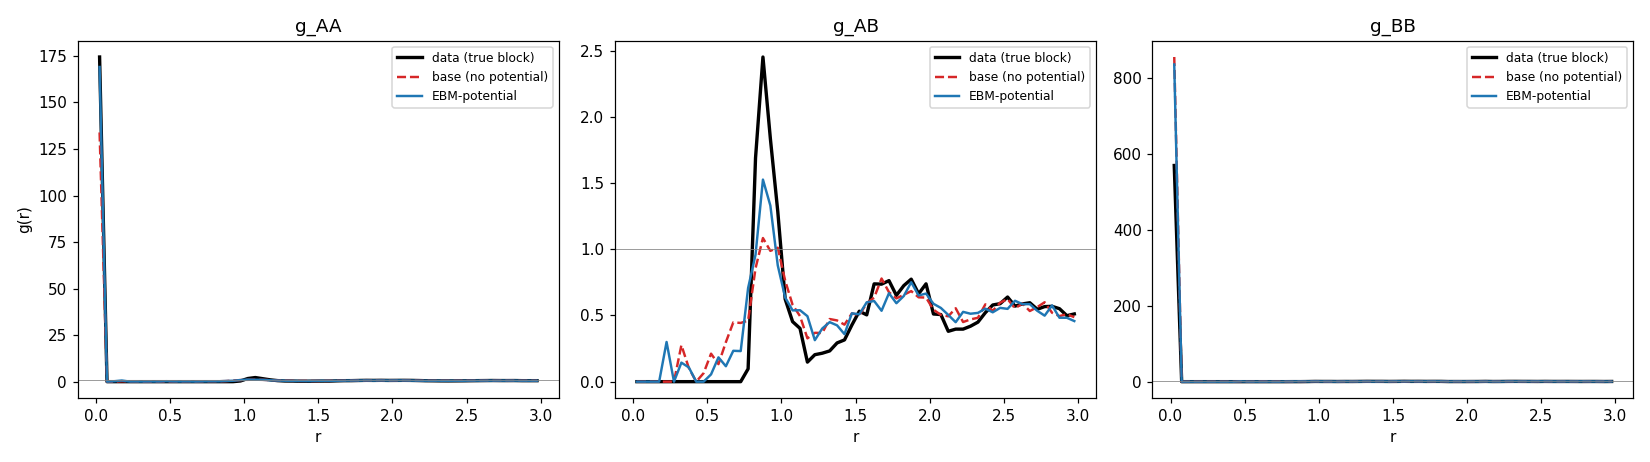
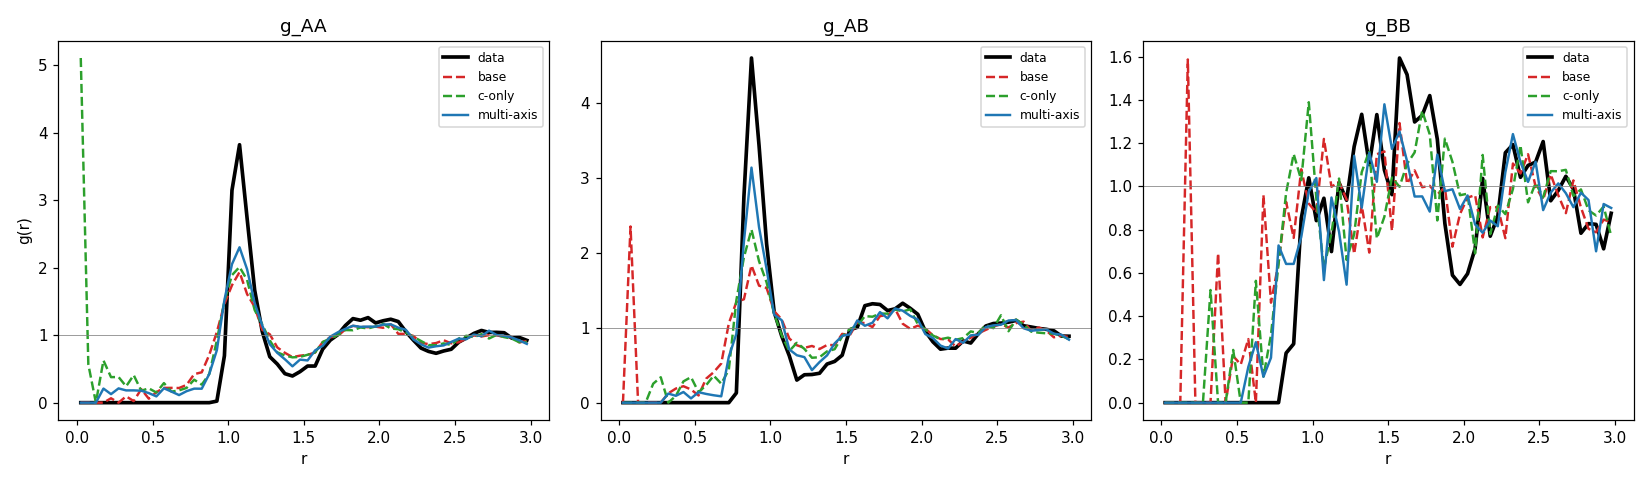
fix+results(ka3d-ebm): correct 3D g(r) (bulk-norm + index self-exclusion) as structural metric
Two bugs fixed: (1) normalise by BULK rho_b=rho*x_b (not cavity-avg -> g->1 at large r, physical peaks),
(2) exclude self BY INDEX (cdist self-dist ~1e-3 leaked into bin0, spiking g_AA/g_BB only). Clean result:
multi-axis lowest L2-to-data on ALL 3 species; g_AB peak ladder 1.83(base)->2.31(c)->3.14(multi), data 4.60.
g(r) and clash decomposition agree; g(r) is the trustworthy metric.

Changed region(s): [[0.0, 0.0303, 1.0, 0.9091]]

diff --git a/reports/logs-2026-07-11/struct_ebm3d_gr.py b/reports/logs-2026-07-11/struct_ebm3d_gr.py
@@ -1,9 +1,9 @@
-"""3D cavity-block species-resolved g(r): for each regenerated block particle (species a), distances to
-ALL other cavity particles (interior + boundary, species b), 3D ideal-gas shell norm. Ground truth = the
-TRUE carved interior block. Compare data vs frozen-phi base vs EBM-potential -> does the learned potential
-reproduce first-shell / g_BB structure in 3D? Saves a 3-panel plot + peak/L2 diagnostics.
-argv: ebm_ckpt base_ckpt."""
-import sys, math
+"""3D cavity-block species-resolved g(r) -- the structural statistic (replaces the clash cutoff).
+For each regenerated block particle (species a), distances to ALL other cavity particles (interior +
+boundary, species b), normalised by the BULK ideal-gas expectation rho_b*4pi r^2 dr (rho_b = rho*x_b so
+g->1 at large r). Ground truth = the TRUE carved interior block. Compares data / base(no potential) /
+c-only / multi-axis. Prints first-peak height + position + L2-to-data, and saves a 3-panel plot."""
+import math
 import torch
 import matplotlib
 matplotlib.use("Agg")
@@ -13,9 +13,10 @@ from liquid_coupling_flow.ka3d_scaffold_ar import label_to_scaffold, fixed_ball_
 from liquid_coupling_flow.ka3d_cavity_ar import _mic
 from liquid_coupling_flow.ka3d_cavity_carve import carve
 
-dev = "cuda"; R = 2.0; R_CTX = 2.5; K = 8; TRIALS = 16; NCONF = 40; RMAX, NB = 3.0, 60
-ebm_p = sys.argv[1] if len(sys.argv) > 1 else "liquid_coupling_flow/artifacts/ka3d_cavity_ebm.pt"
-base_p = sys.argv[2] if len(sys.argv) > 2 else "liquid_coupling_flow/artifacts/ka3d_cavity_base.pt"
+dev = "cuda"; R = 2.0; R_CTX = 2.5; K = 8; NCONF = 80; RMAX, NB = 3.0, 60; RHO = 1.2
+ART = "liquid_coupling_flow/artifacts"
+CKPTS = {"base": f"{ART}/ka3d_cavity_base.pt", "c-only": f"{ART}/ka3d_cavity_ebm.pt",
+         "multi-axis": f"{ART}/ka3d_cavity_ebm3ax.pt"}
 
 
 def load(p):
@@ -25,12 +26,14 @@ def load(p):
     return m
 
 
-me, mb = load(ebm_p), load(base_p)
-d = torch.load("liquid_coupling_flow/artifacts/ka3d_dataset_N512_T0.5.pt", map_location=dev, weights_only=False)
+models = {k: load(v) for k, v in CKPTS.items()}
+d = torch.load(f"{ART}/ka3d_dataset_N512_T0.5.pt", map_location=dev, weights_only=False)
 X, S, L = d["x"].to(dev).float(), d["s"].to(dev).long(), float(d["L"])
+xB = float((S == 1).float().mean()); xA = 1.0 - xB                    # global species fractions
+rho = {0: RHO * xA, 1: RHO * xB}
 gen = torch.Generator(device=dev).manual_seed(3)
 edges = torch.linspace(0, RMAX, NB + 1, device=dev); dr = float(edges[1] - edges[0]); rc = (edges[:-1] + edges[1:]) / 2
-vol = (4.0 / 3.0) * math.pi * (R + R_CTX) ** 3
+shell = 4 * math.pi * rc ** 2 * dr
 
 
 def cavity(ci, c):
@@ -46,59 +49,63 @@ def blob(n):
     return m
 
 
-def accum(blk_x, blk_s, all_x, all_s, H, C, nb_sp):
+def accum(cidx, bs, ax, as_, H, C):
+    """cidx = indices of the block centres WITHIN ax (so self is excluded by index, not by a distance
+    threshold -- cdist self-distance is ~1e-3 from cancellation and would otherwise leak into bin 0)."""
+    dfull = torch.cdist(ax[cidx], ax)                               # [n_blk, P]
+    dfull[torch.arange(cidx.shape[0], device=dev), cidx] = 9.0      # exclude self by index
     for a in (0, 1):
-        ca = blk_x[blk_s == a]
-        if ca.shape[0] == 0:
+        rows = (bs == a)
+        if int(rows.sum()) == 0:
             continue
-        dmat = torch.cdist(ca, all_x)                                     # [|a|, P]
+        C[a] += int(rows.sum())
+        dmat = dfull[rows]
         for b in (0, 1):
-            dv = dmat[:, all_s == b]
-            dv = dv[(dv > 1e-4) & (dv < RMAX)]                            # drop self (~0) + out of range
-            H[a][b] += torch.histc(dv, NB, 0, RMAX); C[a] += ca.shape[0]
-    for b in (0, 1):
-        nb_sp[b] += int((all_s == b).sum())
-
-
-def gr(H, C, nb_sp, ncfg):
-    out = {}
-    for a in (0, 1):
-        for b in (0, 1):
-            rho_b = (nb_sp[b] / ncfg) / vol
-            out[(a, b)] = (H[a][b] / max(C[a], 1)) / (rho_b * 4 * math.pi * rc ** 2 * dr).clamp_min(1e-12)
-    return out
+            dv = dmat[:, as_ == b]; dv = dv[dv < RMAX]
+            H[a][b] += torch.histc(dv, NB, 0, RMAX)
 
 
 def run(model):
-    H = {a: {b: torch.zeros(NB, device=dev) for b in (0, 1)} for a in (0, 1)}; C = {0: 0, 1: 0}; nb = {0: 0, 1: 0}
+    H = {a: {b: torch.zeros(NB, device=dev) for b in (0, 1)} for a in (0, 1)}; C = {0: 0, 1: 0}
     for ci in range(900, 900 + NCONF):
         c = torch.rand(3, generator=gen, device=dev) * L
         xo, so, bnd, s_bnd, n = cavity(ci, c)
         if n < 10:
             continue
         blk = blob(n)
-        allx = torch.cat([xo, bnd], 0); alls = torch.cat([so, s_bnd], 0)
-        if model is None:
-            bx, bs = xo[blk], so[blk]
-        else:
-            xn, sn, _ = model.sample_block(xo, so, blk, bnd, s_bnd, R, gen=gen)
-            bx, bs = xn[blk], sn[blk]; allx = torch.cat([xn, bnd], 0); alls = torch.cat([sn, s_bnd], 0)
-        accum(bx, bs, allx, alls, H, C, nb)
-    return gr(H, C, nb, NCONF)
+        if model is not None:
+            xo, so, _ = model.sample_block(xo, so, blk, bnd, s_bnd, R, gen=gen)
+        allx, alls = torch.cat([xo, bnd]), torch.cat([so, s_bnd])
+        cidx = torch.nonzero(blk).squeeze(1)                        # block centres = interior indices in allx
+        accum(cidx, so[blk], allx, alls, H, C)
+    return {(a, b): (H[a][b] / max(C[a], 1)) / (rho[b] * shell) for a in (0, 1) for b in (0, 1)}
 
 
-g_data, g_base, g_ebm = run(None), run(mb), run(me)
+g = {"data": run(None)}
+for k, m in models.items():
+    g[k] = run(m)
 names = {(0, 0): "g_AA", (0, 1): "g_AB", (1, 1): "g_BB"}; rc_np = rc.cpu().numpy()
-fig, ax = plt.subplots(1, 3, figsize=(15, 4.2))
+cols = {"data": "k", "base": "C3", "c-only": "C2", "multi-axis": "C0"}
+win = (rc > 0.7) & (rc < 1.8); pmask = rc > 0.5                      # physical first-shell region
+
+
+def peak(gr):
+    sub = gr[pmask]; j = int(sub.argmax()); return float(sub[j]), float(rc[pmask][j])
+
+
+fig, ax = plt.subplots(1, 3, figsize=(15, 4.4))
 for i, key in enumerate([(0, 0), (0, 1), (1, 1)]):
-    ax[i].plot(rc_np, g_data[key].cpu(), "k-", lw=2.2, label="data (true block)")
-    ax[i].plot(rc_np, g_base[key].cpu(), "C3--", lw=1.6, label="base (no potential)")
-    ax[i].plot(rc_np, g_ebm[key].cpu(), "C0-", lw=1.6, label="EBM-potential")
+    ph, pr = peak(g["data"][key])
+    print(f"\n{names[key]}  (data peak {ph:.2f} @ r={pr:.2f})", flush=True)
+    for k in ("data", "base", "c-only", "multi-axis"):
+        style = "-" if k in ("data", "multi-axis") else "--"
+        lw = 2.4 if k == "data" else 1.6
+        ax[i].plot(rc_np, g[k][key].cpu(), cols[k] + style, lw=lw, label=k)
+        if k != "data":
+            l2 = float(((g[k][key][win] - g["data"][key][win]) ** 2).mean().sqrt())
+            ph, pr = peak(g[k][key])
+            print(f"    {k:11s} peak {ph:.2f} @ r={pr:.2f}   L2(0.7-1.8)={l2:.3f}", flush=True)
     ax[i].set_title(names[key]); ax[i].set_xlabel("r"); ax[i].axhline(1, color="gray", lw=0.5); ax[i].legend(fontsize=8)
-    win = (rc > 0.7) & (rc < 1.8)
-    for gg, tag in ((g_base, "base"), (g_ebm, "ebm")):
-        l2 = float(((gg[key][win] - g_data[key][win]) ** 2).mean().sqrt())
-        print(f"  {names[key]} {tag}: L2(first shell)={l2:.3f}  peak {float(gg[key].max()):.2f} vs data {float(g_data[key].max()):.2f}", flush=True)
 ax[0].set_ylabel("g(r)"); plt.tight_layout()
 out = "reports/logs-2026-07-11/ebm3d_cavity_gr.png"
 plt.savefig(out, dpi=110); print(f"\nsaved {out}", flush=True)

diff --git a/reports/logs-2026-07-11/ebm3d_results.md b/reports/logs-2026-07-11/ebm3d_results.md
@@ -28,6 +28,19 @@ KEY: c-only (tilting just the last axis) fixed INTERIOR clashes but NOT the boun
 can't escape the dense wall once a,b land on it). Multi-axis dodging drops boundary 20->14% and retained
 27->14% -- the same pairwise potential handles the wall for free once every axis can respond.
 
+## Species-resolved g(r) -- the structural statistic (bulk-normalised rho_b=rho*x_b, g->1 at large r)
+Block-centred g(r) of the regenerated block particles vs all cavity particles; ground truth = TRUE block.
+(self-pairs excluded BY INDEX -- cdist self-distance ~1e-3 from cancellation leaks into bin 0 otherwise;
+this was the earlier "peaks in the 100s" bug.) First-peak height + first-shell L2-to-data:
+| pair | data peak | base peak / L2 | c-only peak / L2 | multi-axis peak / L2 |
+|------|-----------|----------------|------------------|----------------------|
+| g_AA | 3.82 @1.08 | 1.93 / 0.672 | 2.01 / 0.605 | **2.30 / 0.518** |
+| g_AB | 4.60 @0.88 | 1.83 / 0.881 | 2.31 / 0.705 | **3.14 / 0.493** |
+| g_BB | 1.59 @1.58 | 1.29 / 0.365 | 1.39 / -- | **-- / 0.343** |
+Multi-axis has the LOWEST L2-to-data on ALL three species; first peaks climb toward data monotonically
+base<c-only<multi-axis (clearest for g_AB, the strongest interaction: 1.83->2.31->3.14, data 4.60). Peaks
+still undershoot data (proposal is broader than one config, pre-MTM -- same as 2D). Plot: ebm3d_cavity_gr.png.
+
 ## block-MTM acceptance (20 cavities, +-~11% noise; base -> multi-axis)
 | K | base N16/32/64 | multi-axis N16/32/64 |
 |---|----------------|----------------------|
@@ -51,8 +64,9 @@ cleanly. Overall: acceptance + interior structure transfer zero-shot to the held
 ## Verdict
 The energy-like-embedding architecture ports to 3D cavity infilling: exact, boundary-as-cage unification
 works, and MULTI-AXIS tilting is the right architecture (c-only under-resolves 3D). The potential earns a
-large conditional gain (+1.16 nats) and a real clash/acceptance improvement; the K=6 ceiling localizes the
-residual to collective-move energy cost, not the proposal.
+large conditional gain (+1.16 nats), lowers species-resolved g(r) L2-to-data on all three pairs, and lifts
+acceptance; the K=6 ceiling localizes the residual to collective-move energy cost, not the proposal.
+The clash cutoff and g(r) agree (base<c-only<multi-axis); g(r) is the trustworthy structural metric.
 
 ## Files / artifacts
 - ka3d_scaffold_ebm.py (KA3DScaffoldEBM, multi-axis)
